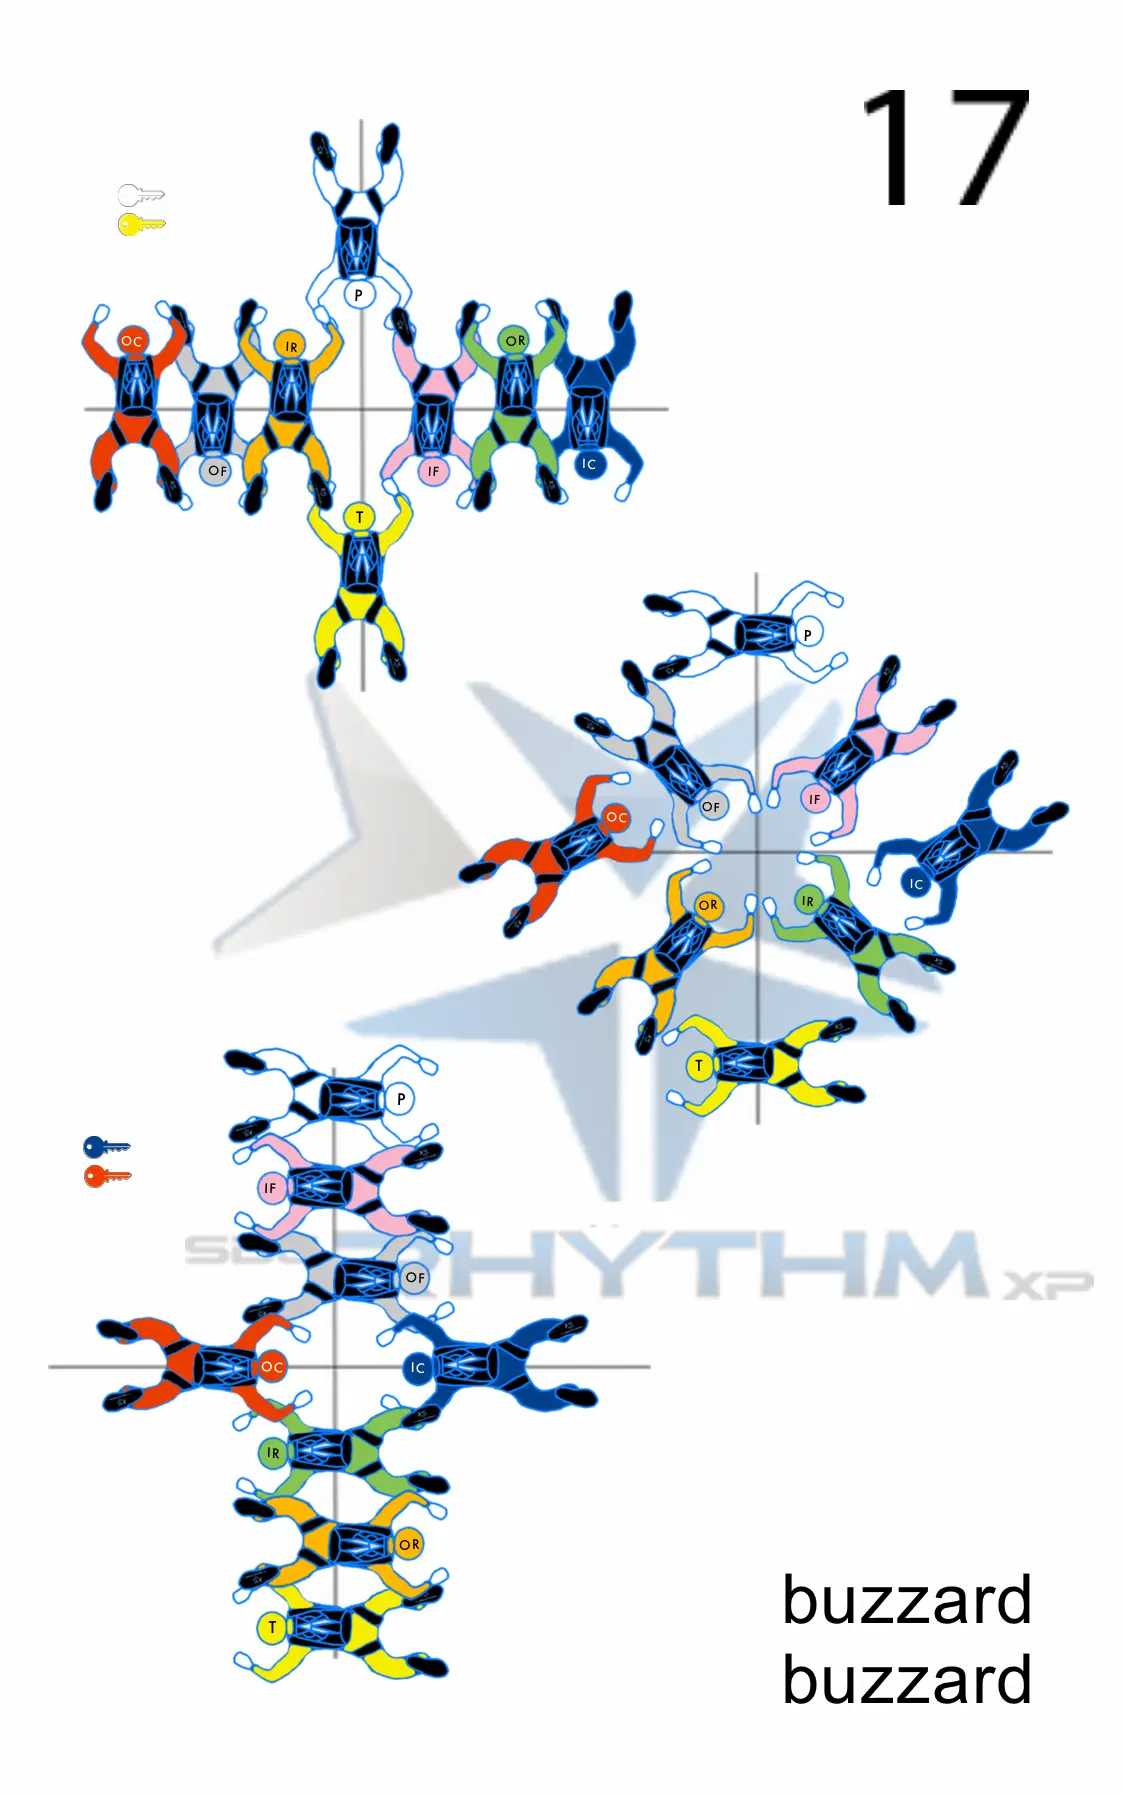
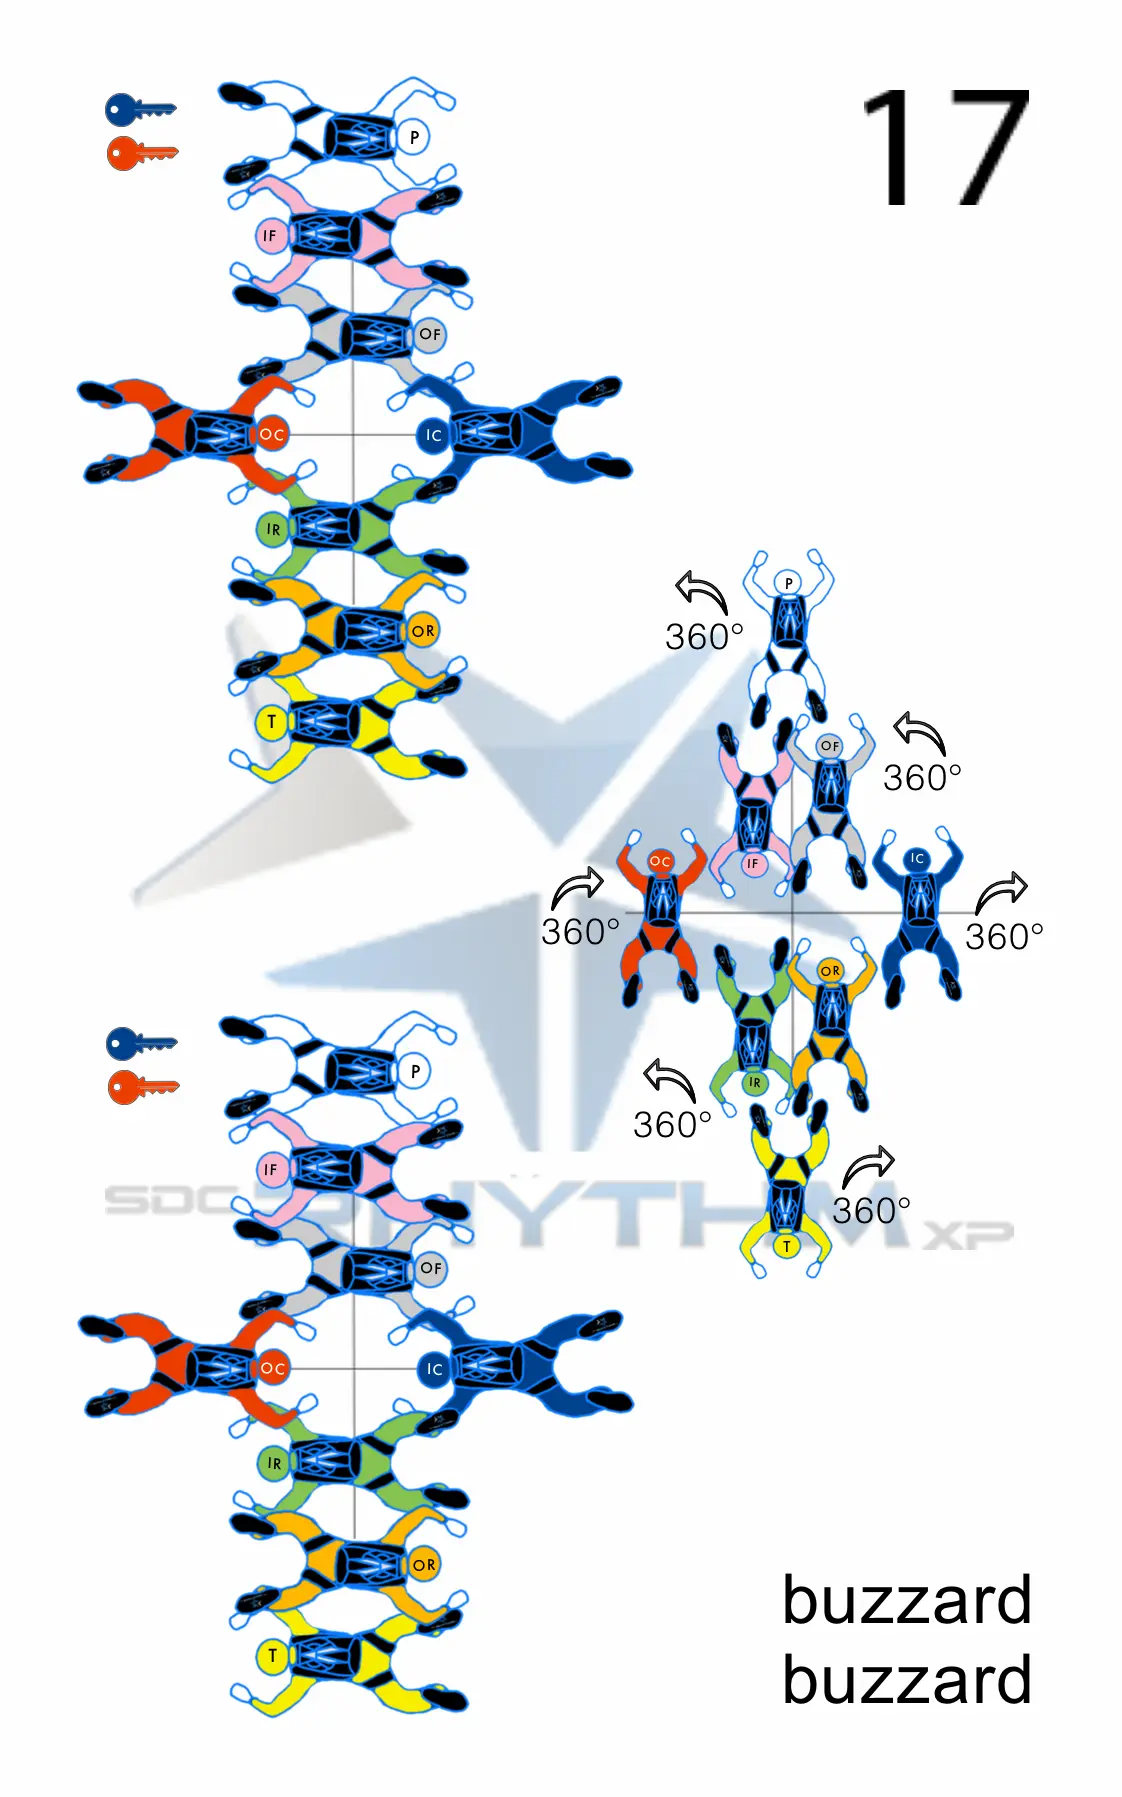
refactor: Swap 8-way nomenclature to _indoor

Changed region(s): [[0.0624, 0.0312, 0.967, 0.9661]]

diff --git a/index.html b/index.html
@@ -69,10 +69,10 @@
         <div class="segmented" id="imageSetSegment"></div>
     </div>
 
-    <label class="toggleSetting hidden" id="outdoorSetting">
-        <input type="checkbox" id="outdoorToggle" onchange="selectOutdoor(this)">
+    <label class="toggleSetting hidden" id="indoorSetting">
+        <input type="checkbox" id="indoorToggle" onchange="selectIndoor(this)">
         <span class="toggle"></span>
-        Outdoor (sky) diagrams
+        Indoor diagrams
     </label>
 
     <label class="toggleSetting">
@@ -145,7 +145,7 @@
     let category = 'all';
     let classLevel = 'open';
     let frontContent = 'diagram';
-    let outdoor = false;
+    let indoor = false;
     let imageSet = 'Rhythm';
     let fullDeck = [];
     let deck = [];
@@ -169,7 +169,7 @@
                 category,
                 classLevel,
                 frontContent,
-                outdoor,
+                indoor,
                 imageSet,
                 recycle,
             }));
@@ -188,13 +188,13 @@
             category     = data.category ?? 'all';
             classLevel   = data.classLevel ?? 'open';
             frontContent = data.frontContent ?? 'diagram';
-            outdoor      = data.outdoor ?? false;
+            indoor       = data.indoor ?? false;
             imageSet     = data.imageSet ?? 'Rhythm';
             recycle      = data.recycle ?? false;
 
             // Rebuild the full pool (for category switching), then restore the played deck
-            fullDeck = buildDeck({discipline, outdoor, classLevel, imageSet});
-            deck = deckFromKeys(data.deck, {discipline, outdoor, imageSet, classLevel});
+            fullDeck = buildDeck({discipline, indoor, classLevel, imageSet});
+            deck = deckFromKeys(data.deck, {discipline, indoor, imageSet, classLevel});
             prefetchDeck();
 
             // Populate stats
@@ -230,7 +230,7 @@
 <script>
     // Rebuild the full pool (reshuffles) — used when the discipline or class changes
     function newDeck() {
-        fullDeck = buildDeck({discipline, outdoor, classLevel, imageSet});
+        fullDeck = buildDeck({discipline, indoor, classLevel, imageSet});
         applyCategory();
     }
 
@@ -270,9 +270,9 @@
         else setTimeout(warm);
     }
 
-    // Re-point every card's diagram at the current set/outdoor without rebuilding the deck
+    // Re-point every card's diagram at the current set/indoor without rebuilding the deck
     function hotSwapImages() {
-        const images = poolImages({discipline, outdoor, imageSet});
+        const images = poolImages({discipline, indoor, imageSet});
         for (const card of fullDeck) { card.image = images[card.key]; card.figure = figureFor(images[card.key]); }
         for (const card of deck)     { card.image = images[card.key]; card.figure = figureFor(images[card.key]); }
 
@@ -474,8 +474,8 @@
         renderImageSetButtons();
         renderClassButtons();
 
-        // Only show outside toggle for Rhythm 8-way image set
-        document.getElementById('outdoorSetting').classList
+        // Only show the indoor toggle for 8-way sets that have tunnel variants
+        document.getElementById('indoorSetting').classList
             .toggle('hidden', !(discipline === '8-way' && imageSet === 'Rhythm'));
 
         document.getElementById('categoryGroup').classList
@@ -531,7 +531,7 @@
 </script>
 <!--Settings panel-->
 <script>
-    const outdoorToggle = document.getElementById('outdoorToggle');
+    const indoorToggle = document.getElementById('indoorToggle');
     const recycleToggle = document.getElementById('recycleToggle');
     const themeToggle = document.getElementById('themeToggle');
 
@@ -558,13 +558,13 @@
     function selectImageSet(button) {
         selectSegment('imageSetSegment', button);
         imageSet = button.dataset.imageset;
-        updateDisciplineUI(); // the outdoor toggle only applies to Rhythm 8-way
+        updateDisciplineUI(); // the indoor toggle only applies to Rhythm 8-way
         hotSwapImages();
     }
 
-    // Outdoor/sky vs tunnel diagrams — also a hot-swap
-    function selectOutdoor(checkbox) {
-        outdoor = checkbox.checked;
+    // Indoor vs. outdoor diagrams — also a hot-swap
+    function selectIndoor(checkbox) {
+        indoor = checkbox.checked;
         hotSwapImages();
     }
 
@@ -598,7 +598,7 @@
         document.querySelectorAll('#frontSegment button').forEach(button =>
             button.classList.toggle('active', button.dataset.front === frontContent));
 
-        outdoorToggle.checked = outdoor;
+        indoorToggle.checked = indoor;
         recycleToggle.checked = recycle;
         themeToggle.checked = theme === 'light';
 

diff --git a/index.js b/index.js
@@ -27,14 +27,14 @@ function categorized(discipline) {
     return keys.some(isBlockKey) && keys.some(key => !isBlockKey(key));
 }
 
-function poolImages({discipline, outdoor, imageSet}) {
+function poolImages({discipline, indoor, imageSet}) {
     const data = DATA[discipline];
     const set = imageSet in data.sets ? imageSet : 'USPA';
     const filename = data.sets[set];
     const dir = `assets/diagrams/${discipline}/${set}`;
     const images = {};
     for (const key of Object.keys(data.names))
-        images[key] = `${dir}/${filename ? filename(key, outdoor) : `${key}.webp`}`;
+        images[key] = `${dir}/${filename ? filename(key, indoor) : `${key}.webp`}`;
     return images;
 }
 
@@ -55,8 +55,8 @@ const OPT_IN_KEYS = {
 };
 
 // Build the class-scoped pool (all eligible cards, unshuffled) as key -> card.
-function buildPool({discipline, outdoor, imageSet, classLevel}) {
-    const images = poolImages({discipline, outdoor, imageSet});
+function buildPool({discipline, indoor, imageSet, classLevel}) {
+    const images = poolImages({discipline, indoor, imageSet});
     const names = DATA[discipline].names;
 
     const cls = classesFor(discipline).find(c => c.key === classLevel) ?? {};

diff --git a/assets/diagrams/8-way/index.js b/assets/diagrams/8-way/index.js
@@ -47,7 +47,7 @@ const _8Way = {
         {key: 'open', label: 'Advanced / Open'},
     ],
     sets: {
-        Rhythm: (key, outdoor) => outdoor && [13, 17, 20].includes(+key) ? `${key}_sky.webp` : `${key}.webp`,
+        Rhythm: (key, indoor) => indoor && [13, 17, 20].includes(+key) ? `${key}_indoor.webp` : `${key}.webp`,
         USPA: null,
         Axis: null,
     },
